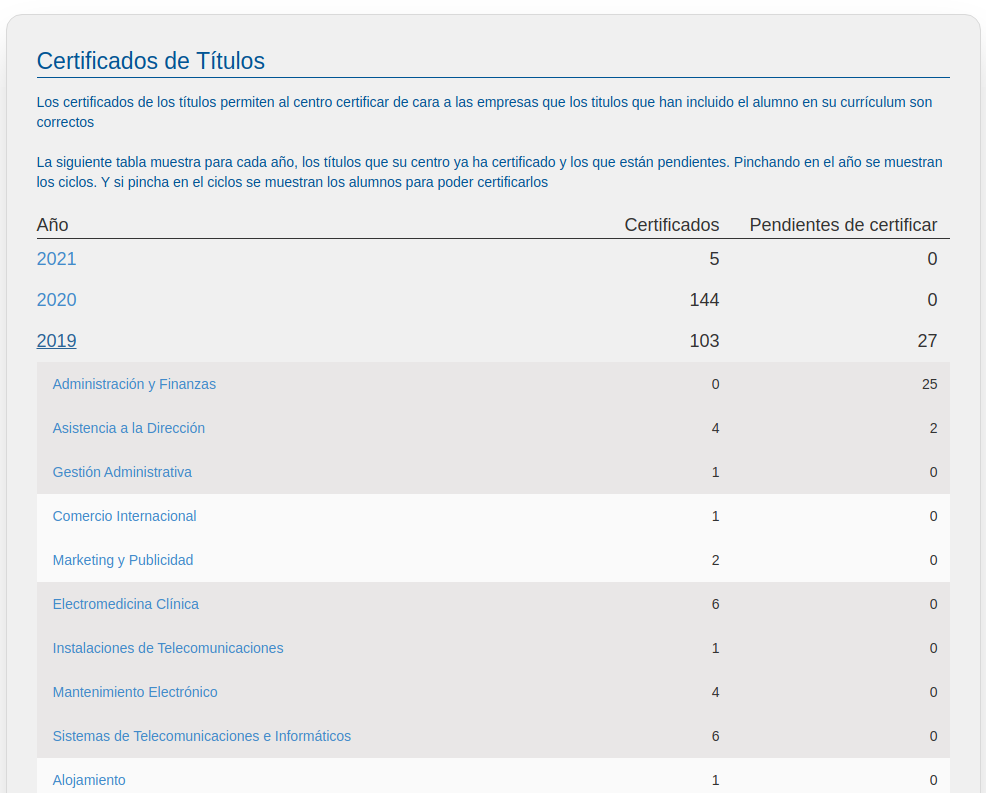
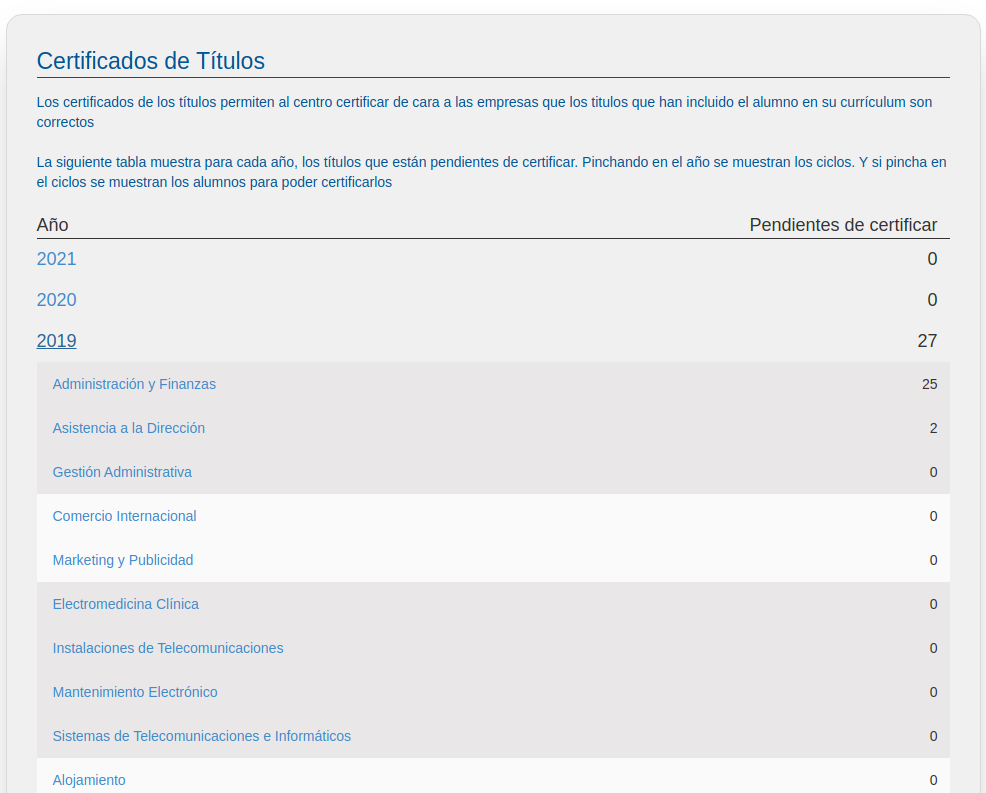
feat(#290):No mostrar cuantos titulados se han certificado
Falta cambiar el manual y un texto de la pantalla

diff --git a/web/centro/views/certificadotitulo/anyos.html b/web/centro/views/certificadotitulo/anyos.html
@@ -27,7 +27,7 @@ along with this program.  If not, see http://www.gnu.org/licenses/
             <div class="row" >
                 <div class="col-xs-12"> 
                     <p class="form__text form__text--help">Los certificados de los t&iacute;tulos permiten al centro certificar de cara a las empresas que los titulos que han incluido el alumno en su currículum son correctos</p>
-                    <p class="form__text form__text--help">La siguiente tabla muestra para cada año, los títulos que su centro ya ha certificado y los que están pendientes. Pinchando en el año se muestran los ciclos. Y si pincha en el ciclos se muestran los alumnos para poder certificarlos</p>
+                    <p class="form__text form__text--help">La siguiente tabla muestra para cada año, los títulos que están pendientes de certificar. Pinchando en el año se muestran los ciclos. Y si pincha en el ciclos se muestran los alumnos para poder certificarlos</p>
                 </div>
             </div>            
             <div class="row" >

diff --git a/web/manuales/centro/certificar.md b/web/manuales/centro/certificar.md
@@ -8,7 +8,7 @@ La única utilidad de certificar es la siguiente: Permite que una empresa, cuand
 
 ![](certificado_titulo.png)
 
-En esta pantalla podemos ver para cada año, los títulos (es decir los titulados que se han indicado que tienen un título en nuestro centro) que hemos certificado y los títulos que faltan por certificar.
+En esta pantalla podemos ver para cada año, los títulos (es decir los titulados que se han indicado que tienen un título en nuestro centro) que  faltan por certificar.
 
 Si pulsamos en un año , se podrá ver , el desglose por ciclos de ese año.
 
